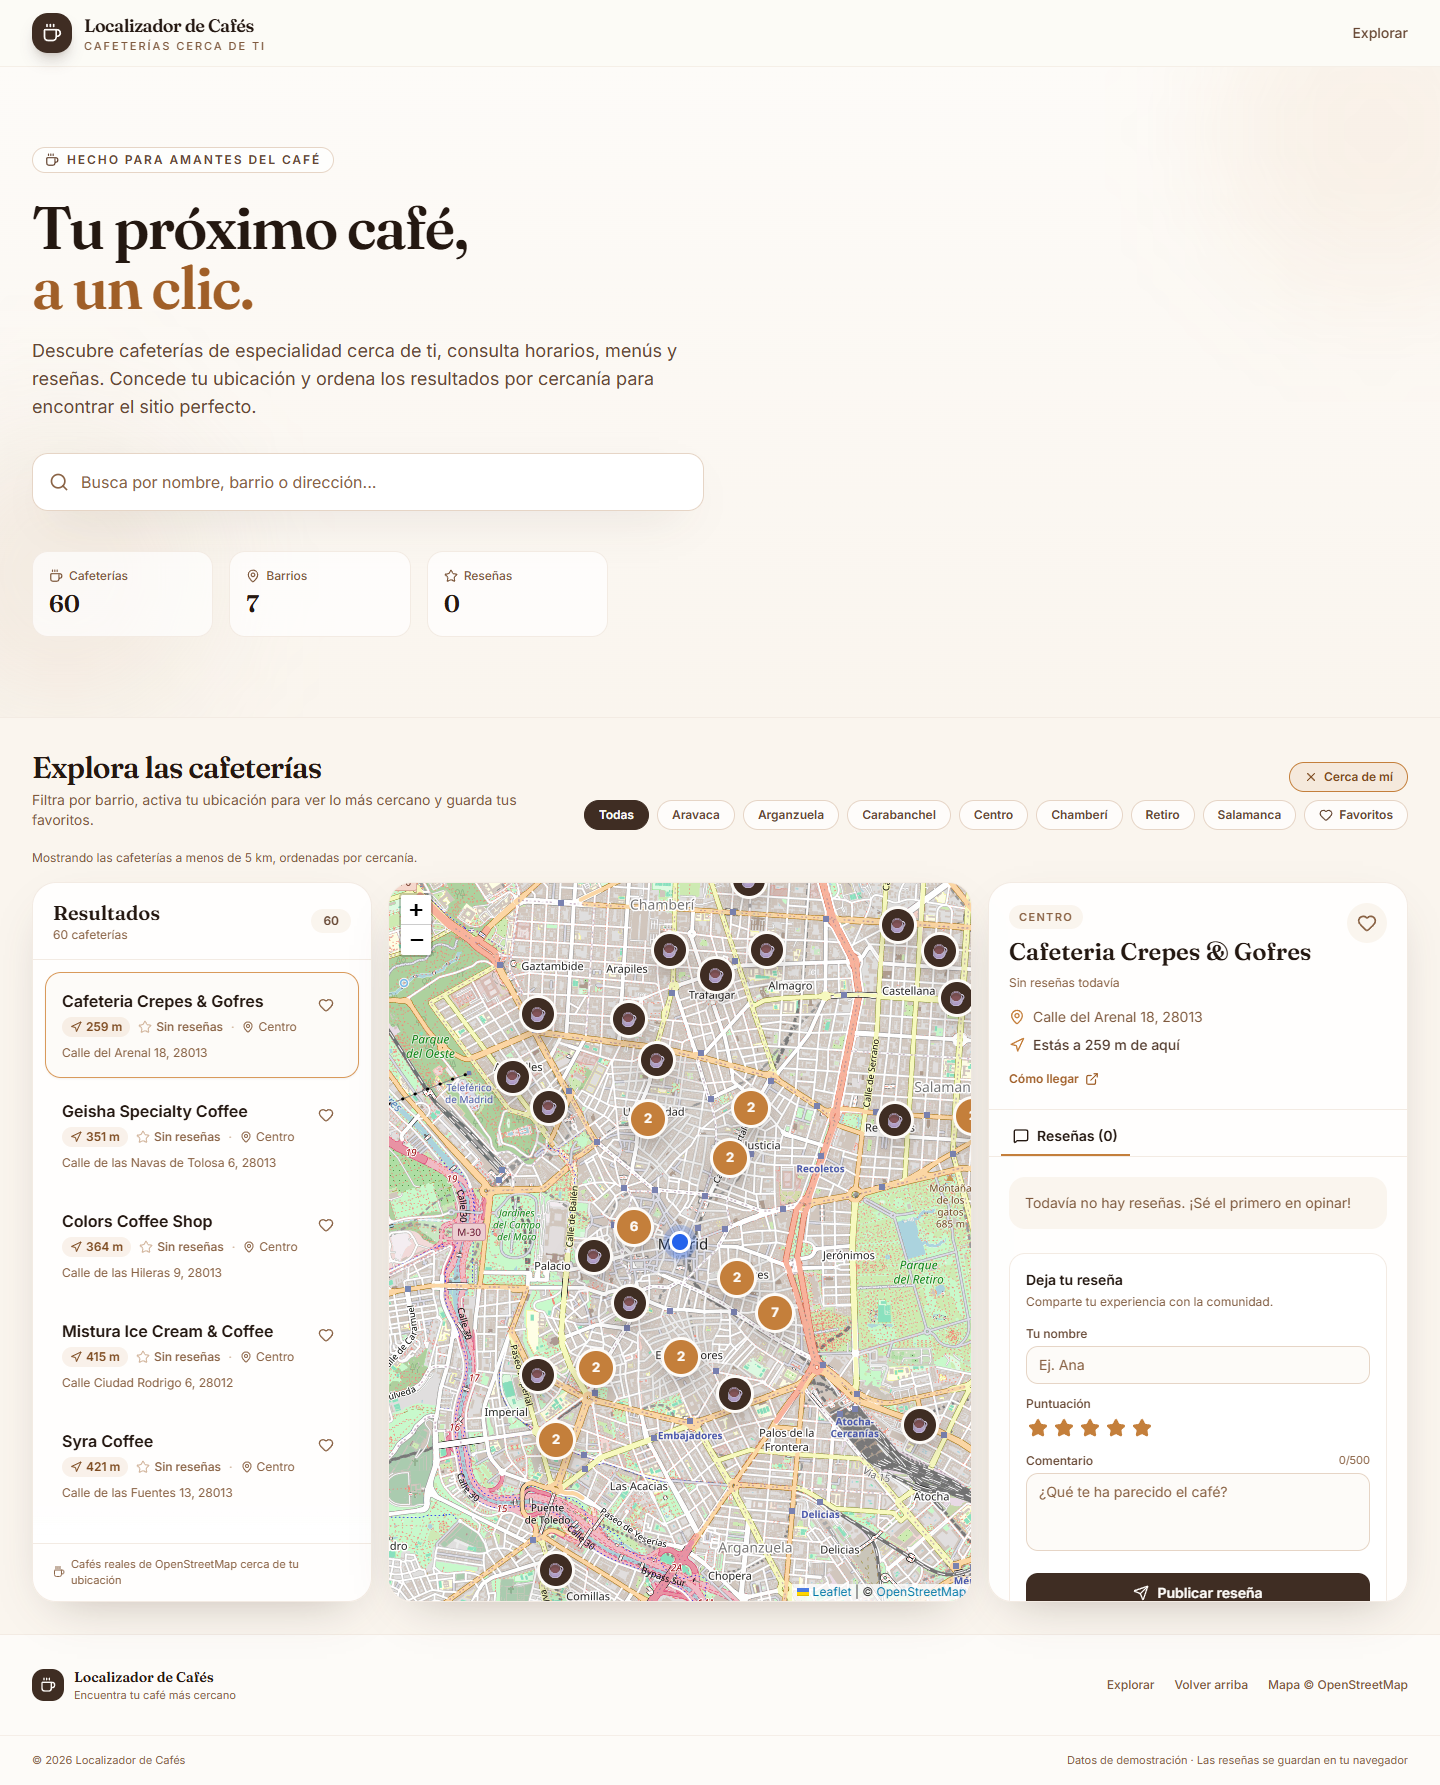
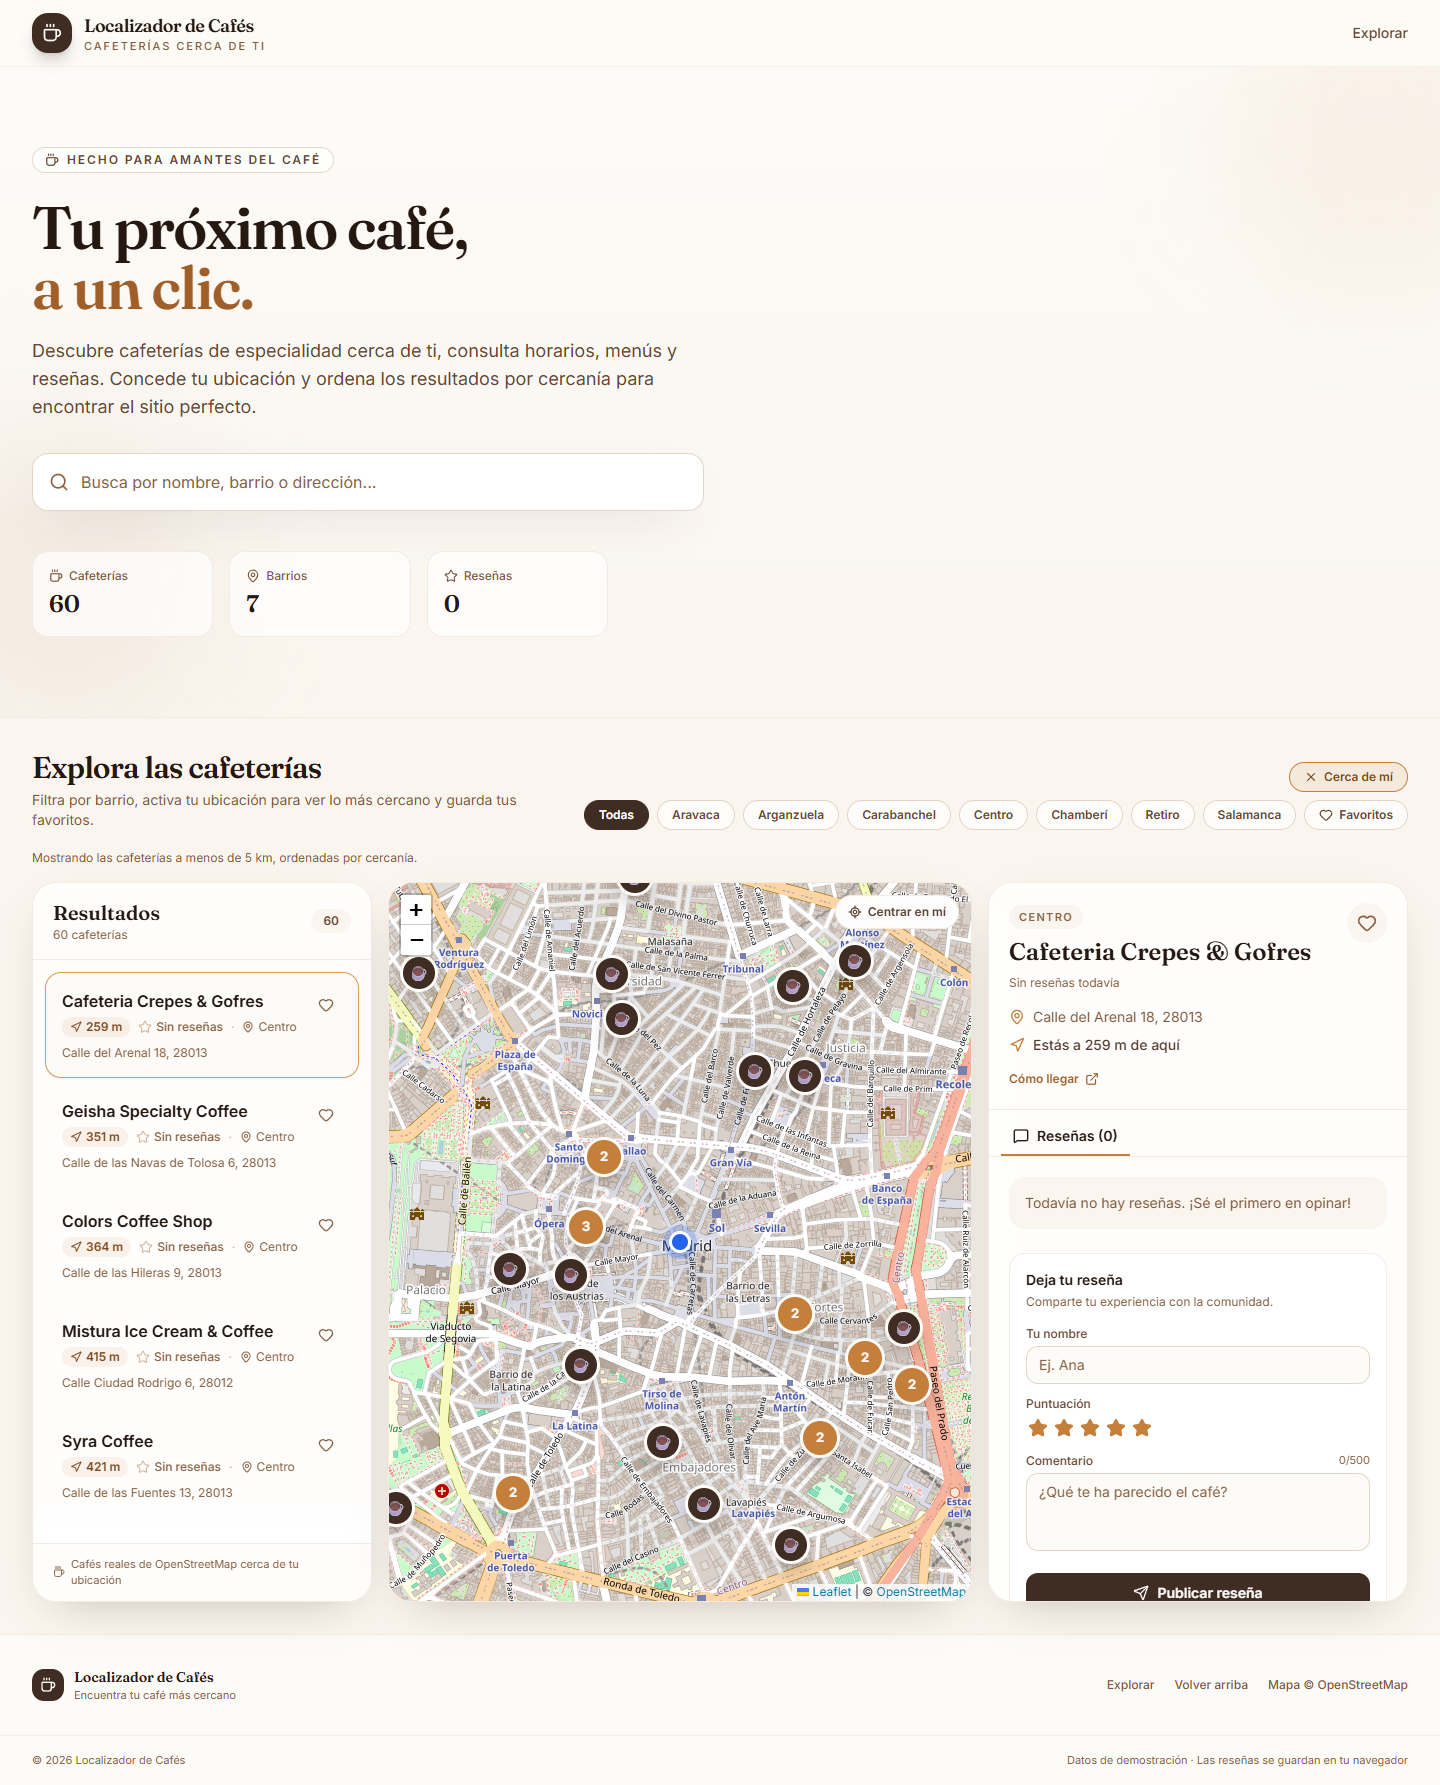
Usa PostgreSQL real y centra el mapa en la ubicacion del usuario
- Registra el plugin NetTopologySuite en NpgsqlDataSource: escribir geography
  fallaba con 'Writing values of Point is not supported for NpgsqlDbType Geography'
- Genera la CSP con el origen de VITE_API_URL para que la API local (HTTP) no
  quede bloqueada por connect-src
- Centra el mapa en el usuario (flyTo, zoom 15), anade el boton 'Centrar en mi'
  y un ResizeObserver con invalidateSize
- Anade scripts/start-db.ps1 para arrancar PostgreSQL/PostGIS en WSL y mantener
  la distro viva
- Muestra el origen de los datos (API .NET + PostgreSQL vs OpenStreetMap) y
  actualiza README y capturas

Changed region(s): [[0.25, 0.493, 0.6875, 0.9244]]

diff --git a/frontend/src/components/MapView.tsx b/frontend/src/components/MapView.tsx
@@ -1,6 +1,7 @@
 import { useEffect, useRef } from 'react';
 import L from 'leaflet';
 import 'leaflet.markercluster';
+import { LocateFixed } from 'lucide-react';
 import { MapContainer, Marker, TileLayer, useMap } from 'react-leaflet';
 import type { Coordinates } from '../lib/geo';
 import type { CafeSummary } from '../types/cafe';
@@ -52,6 +53,9 @@ function MapA11y() {
   return null;
 }
 
+/** Zoom al que se centra la ubicación del usuario: calle, no ciudad. */
+const USER_ZOOM = 15;
+
 function MapController({
   selectedId,
   userLocation,
@@ -63,16 +67,53 @@ function MapController({
 }) {
   const map = useMap();
   const lastFitKey = useRef<string | null>(null);
+  const lastLocationKey = useRef<string | null>(null);
   const lastFlownId = useRef<string | null>(null);
 
   useEffect(() => {
+    // El mapa puede montarse con tamaño 0 (layout diferido, pestañas): sin
+    // esto, los encuadres y el centrado se calculan sobre un contenedor vacío.
+    const container = map.getContainer();
+    const observer = new ResizeObserver(() => map.invalidateSize());
+    observer.observe(container);
+    map.invalidateSize();
+
+    return () => observer.disconnect();
+  }, [map]);
+
+  // Con ubicación real, el mapa se centra en el usuario en cuanto llega. Es
+  // intencionadamente un centrado (no un encuadre con las cafeterías) para que
+  // su punto quede en el centro y el movimiento sea inequívoco.
+  useEffect(() => {
+    if (!userLocation) {
+      lastLocationKey.current = null;
+      return;
+    }
+
+    const locationKey = `${userLocation.latitude},${userLocation.longitude}`;
+    if (lastLocationKey.current === locationKey) {
+      return;
+    }
+    lastLocationKey.current = locationKey;
+
+    map.stop();
+    map.flyTo(
+      [userLocation.latitude, userLocation.longitude],
+      USER_ZOOM,
+      { duration: 1.2 },
+    );
+  }, [map, userLocation]);
+
+  // Sin ubicación del usuario se encuadran las cafeterías de referencia.
+  useEffect(() => {
+    if (userLocation) {
+      return;
+    }
+
     // El encuadre se limita a los más cercanos: con muchas cafeterías en la
     // zona el zoom bajaba tanto que los marcadores se solapaban.
     const fitCafes = cafes.slice(0, FIT_LIMIT);
-    const locationKey = userLocation
-      ? `${userLocation.latitude},${userLocation.longitude}`
-      : '';
-    const fitKey = `${locationKey}|${fitCafes.map((cafe) => cafe.id).join(',')}`;
+    const fitKey = fitCafes.map((cafe) => cafe.id).join(',');
 
     if (lastFitKey.current === fitKey) {
       return;
@@ -80,24 +121,14 @@ function MapController({
     lastFitKey.current = fitKey;
 
     if (fitCafes.length === 0) {
-      // Sin resultados: encuadra la posición del usuario para que su punto
-      // se vea aunque esté lejos de Madrid (datos de ejemplo).
-      if (userLocation) {
-        map.stop();
-        map.setView([userLocation.latitude, userLocation.longitude], 14, {
-          animate: true,
-        });
-      }
+      map.stop();
+      map.setView(MADRID_CENTER, 13);
       return;
     }
 
-    const points: [number, number][] = fitCafes.map(
+    const points = fitCafes.map(
       (cafe) => [cafe.latitude, cafe.longitude] as [number, number],
     );
-
-    if (userLocation) {
-      points.unshift([userLocation.latitude, userLocation.longitude]);
-    }
 
     // Corta cualquier animación en curso (p. ej. un flyTo reciente) para que
     // el encuadre se aplique siempre de forma limpia.
@@ -217,6 +248,21 @@ export function MapView({
   isLoading = false,
   onSelect,
 }: MapViewProps) {
+  const mapRef = useRef<L.Map | null>(null);
+
+  const recenter = () => {
+    if (!userLocation || !mapRef.current) {
+      return;
+    }
+
+    mapRef.current.stop();
+    mapRef.current.flyTo(
+      [userLocation.latitude, userLocation.longitude],
+      USER_ZOOM,
+      { duration: 1 },
+    );
+  };
+
   return (
     <section
       className="relative h-full min-h-[320px] overflow-hidden rounded-3xl border border-coffee-100 shadow-soft"
@@ -224,6 +270,7 @@ export function MapView({
       aria-label="Mapa de cafeterías"
     >
       <MapContainer
+        ref={mapRef}
         center={MADRID_CENTER}
         zoom={13}
         scrollWheelZoom
@@ -247,6 +294,18 @@ export function MapView({
 
         <CafeClusterLayer cafes={cafes} onSelect={onSelect} />
       </MapContainer>
+
+      {userLocation && (
+        <button
+          type="button"
+          onClick={recenter}
+          className="absolute right-3 top-3 z-[1000] inline-flex items-center gap-1.5 rounded-full border border-coffee-100 bg-white/95 px-3 py-2 text-xs font-semibold text-coffee-800 shadow-soft backdrop-blur transition hover:bg-white focus:outline-none focus-visible:ring-2 focus-visible:ring-caramel-500"
+          title="Centrar el mapa en mi ubicación"
+        >
+          <LocateFixed className="h-3.5 w-3.5" aria-hidden="true" />
+          Centrar en mí
+        </button>
+      )}
 
       {cafes.length === 0 && (
         <div className="pointer-events-none absolute inset-0 flex items-center justify-center bg-cream-50/80 backdrop-blur-sm">

diff --git a/frontend/vite.config.ts b/frontend/vite.config.ts
@@ -5,24 +5,48 @@ import { defineConfig, loadEnv } from 'vite';
 
 const DEFAULT_SITE_URL = 'https://example.github.io/localizador-cafes/';
 
-const CONTENT_SECURITY_POLICY = [
-  "default-src 'self'",
-  "base-uri 'self'",
-  "form-action 'self'",
-  "object-src 'none'",
-  "img-src 'self' data: blob: https://*.tile.openstreetmap.org https://tile.openstreetmap.org",
-  "script-src 'self'",
-  "style-src 'self' 'unsafe-inline' https://fonts.googleapis.com",
-  "font-src 'self' data: https://fonts.gstatic.com",
-  "connect-src 'self' https:",
-  "manifest-src 'self'",
-].join('; ');
+function contentSecurityPolicy(apiOrigin: string | null) {
+  // La API local va por HTTP: si se configura VITE_API_URL hay que permitir su
+  // origen en connect-src o el navegador bloquea todas las peticiones.
+  const connectSrc = ["'self'", 'https:'];
+  if (apiOrigin) {
+    connectSrc.push(apiOrigin);
+  }
+
+  return [
+    "default-src 'self'",
+    "base-uri 'self'",
+    "form-action 'self'",
+    "object-src 'none'",
+    "img-src 'self' data: blob: https://*.tile.openstreetmap.org https://tile.openstreetmap.org",
+    "script-src 'self'",
+    "style-src 'self' 'unsafe-inline' https://fonts.googleapis.com",
+    "font-src 'self' data: https://fonts.gstatic.com",
+    `connect-src ${connectSrc.join(' ')}`,
+    "manifest-src 'self'",
+  ].join('; ');
+}
+
+function apiOriginOf(value: string | undefined): string | null {
+  if (!value?.trim()) {
+    return null;
+  }
+
+  try {
+    return new URL(value.trim()).origin;
+  } catch {
+    return null;
+  }
+}
 
 // https://vite.dev/config/
 export default defineConfig(({ mode }) => {
   const env = loadEnv(mode, process.cwd(), '');
   const siteUrl = `${(env.VITE_SITE_URL?.trim() || DEFAULT_SITE_URL).replace(/\/+$/, '')}/`;
   const ogImageUrl = new URL('og-image.png', siteUrl).href;
+  const contentSecurityPolicyHeader = contentSecurityPolicy(
+    apiOriginOf(env.VITE_API_URL),
+  );
 
   return {
     base: './',
@@ -43,7 +67,7 @@ export default defineConfig(({ mode }) => {
         transformIndexHtml(html) {
           return html.replace(
             '</head>',
-            `    <meta http-equiv="Content-Security-Policy" content="${CONTENT_SECURITY_POLICY}" />\n  </head>`,
+            `    <meta http-equiv="Content-Security-Policy" content="${contentSecurityPolicyHeader}" />\n  </head>`,
           );
         },
       },

diff --git a/frontend/src/App.tsx b/frontend/src/App.tsx
@@ -7,6 +7,7 @@ import { Hero } from './components/Hero';
 import { LocationFilter } from './components/LocationFilter';
 import { LocationBanner } from './components/LocationBanner';
 import { NeighborhoodFilter } from './components/NeighborhoodFilter';
+import { IS_DEMO_MODE } from './config';
 import { useCafe } from './hooks/useCafe';
 import { useCafes } from './hooks/useCafes';
 import { useFavorites } from './hooks/useFavorites';
@@ -159,9 +160,11 @@ function App() {
   );
 
   // Indica de dónde salen los datos que se muestran en el listado.
-  const sourceNote = locationActive
-    ? 'Cafés reales de OpenStreetMap cerca de tu ubicación'
-    : 'Cafés reales de OpenStreetMap en Madrid (referencia)';
+  const sourceNote = !IS_DEMO_MODE
+    ? 'Datos servidos por la API (.NET + PostgreSQL)'
+    : locationActive
+      ? 'Cafés reales de OpenStreetMap cerca de tu ubicación'
+      : 'Cafés reales de OpenStreetMap en Madrid (referencia)';
 
   const locationNotice = isLocating
     ? 'Pidiendo permiso para acceder a tu ubicación…'

diff --git a/backend/src/LocalizadorCafes.Infrastructure/DependencyInjection.cs b/backend/src/LocalizadorCafes.Infrastructure/DependencyInjection.cs
@@ -4,6 +4,7 @@ using LocalizadorCafes.Infrastructure.Persistence.Repositories;
 using Microsoft.EntityFrameworkCore;
 using Microsoft.Extensions.Configuration;
 using Microsoft.Extensions.DependencyInjection;
+using Npgsql;
 
 namespace LocalizadorCafes.Infrastructure;
 
@@ -27,12 +28,23 @@ public static class DependencyInjection
             ?? throw new InvalidOperationException(
                 "No se encontró la cadena de conexión 'DefaultConnection'.");
 
-        services.AddDbContext<AppDbContext>(options =>
-            options.UseNpgsql(connectionString, npgsql =>
-            {
-                npgsql.UseNetTopologySuite();
-                npgsql.EnableRetryOnFailure(3);
-            }));
+        // La fuente de datos se construye a mano para registrar el plugin de
+        // PostGIS (NetTopologySuite). Si se pasa solo la cadena de conexión,
+        // Npgsql crea una fuente sin el plugin y falla al escribir `geography`.
+        var dataSourceBuilder = new NpgsqlDataSourceBuilder(connectionString);
+        dataSourceBuilder.UseNetTopologySuite();
+        var dataSource = dataSourceBuilder.Build();
+
+        services.AddSingleton(dataSource);
+
+        services.AddDbContext<AppDbContext>((serviceProvider, options) =>
+            options.UseNpgsql(
+                serviceProvider.GetRequiredService<NpgsqlDataSource>(),
+                npgsql =>
+                {
+                    npgsql.UseNetTopologySuite();
+                    npgsql.EnableRetryOnFailure(3);
+                }));
 
         services.AddScoped<ICafeRepository, CafeRepository>();
 

diff --git a/backend/src/LocalizadorCafes.Api/Program.cs b/backend/src/LocalizadorCafes.Api/Program.cs
@@ -26,7 +26,9 @@ if (useInMemory)
     Console.WriteLine(
         "\n⚠  No se pudo conectar con PostgreSQL. La API arranca en MODO DEMO con datos en memoria.\n" +
         "   Las reseñas nuevas se pierden al reiniciar. Para usar PostgreSQL:\n" +
-        "   docker compose up -d db  (o ajusta ConnectionStrings__DefaultConnection).\n");
+        "     pwsh -File scripts/start-db.ps1   (PostgreSQL en WSL)\n" +
+        "     docker compose up -d db           (Docker)\n" +
+        "   o ajusta ConnectionStrings__DefaultConnection.\n");
 }
 
 builder.Host.UseSerilog((context, services, configuration) =>

diff --git a/README.md b/README.md
@@ -7,7 +7,7 @@ Buscador de cafeterías de especialidad cerca de ti. Proyecto **full-stack** pen
 
 ## Cerca de mí
 
-Al cargar la página se solicita permiso de ubicación automáticamente. Si lo concedes, la app busca cafeterías reales de OpenStreetMap en un radio de 5 km, las ordena de menor a mayor distancia y marca tu posición en el mapa. Si lo deniegas (o el navegador bloquea la petición automática), aparece un aviso con el botón «Permitir ubicación»: al concederlo, la app se recentra sola en tu zona sin recargar. Mientras tanto, enseña cafeterías de Madrid como referencia.
+Al cargar la página se solicita permiso de ubicación automáticamente. Si lo concedes, la app busca cafeterías reales de OpenStreetMap en un radio de 5 km, las ordena de menor a mayor distancia y **centra el mapa en tu posición** (zoom de calle, con tu punto en el centro). Si te alejas arrastrando, el botón **«Centrar en mí»** te devuelve a tu ubicación. Si deniegas el permiso (o el navegador bloquea la petición automática), aparece un aviso con el botón «Permitir ubicación»: al concederlo, la app se recentra sola en tu zona sin recargar. Mientras tanto, enseña cafeterías de Madrid como referencia.
 
 Los **favoritos no dependen de la ubicación**: se guarda la ficha del café en `localStorage`, así que siguen apareciendo aunque te muevas a otra ciudad o cambies de zona.
 
@@ -110,7 +110,19 @@ Si no hay PostgreSQL disponible, la API **arranca en modo demo** con las 6 cafet
 
 ##### Con PostgreSQL + PostGIS
 
-Crea la base de datos y habilita PostGIS:
+La forma más rápida en Windows es usar la distro Ubuntu de WSL, que ya trae PostgreSQL 16 y PostGIS:
+
+```powershell
+# Instalación inicial (una sola vez)
+wsl -d Ubuntu-24.04 -u root -- bash -lc "apt-get install -y postgresql postgresql-contrib postgis postgresql-16-postgis-3"
+
+# Arrancar el clúster (mantiene la distro viva mientras el equipo esté encendido)
+pwsh -File scripts/start-db.ps1
+```
+
+Si usas una distro con otro nombre: `pwsh -File scripts/start-db.ps1 -Distro Ubuntu`.
+
+También puedes usar un PostgreSQL nativo o Docker; en cualquier caso crea la base de datos y habilita PostGIS:
 
 ```sql
 CREATE DATABASE localizador_cafes;
@@ -134,6 +146,8 @@ cd frontend
 VITE_API_URL=http://localhost:5067
 npm run dev
 ```
+
+> El build de producción genera la CSP con el origen de `VITE_API_URL` en `connect-src`, así que la API local (HTTP) no queda bloqueada por el navegador.
 
 #### 3. Docker Compose (todo en uno)
 
@@ -204,7 +218,7 @@ dotnet test
 - 18 pruebas unitarias: validador de reseñas (autor, longitudes, rating y comentario) y repositorio en memoria (búsqueda, radio, reseñas y datos de ejemplo).
 - `dotnet build` sin advertencias ni errores.
 - Migración EF Core con PostGIS incluida en el repositorio.
-- Arranque verificado sin PostgreSQL (modo demo) y con la API respondiendo a listado, detalle, filtro por radio y creación de reseñas.
+- Verificado contra PostgreSQL 16 + PostGIS 3.4 reales: migración y seed automáticos, listado, filtro por radio (`geography`), detalle y alta de reseñas con recálculo de la media. También verificado el arranque sin base de datos (modo demo en memoria).
 
 #### Frontend
 
@@ -254,7 +268,7 @@ El workflow `.github/workflows/backend.yml` compila y ejecuta las pruebas del ba
 ### Limitaciones conocidas
 
 - La demo de GitHub Pages funciona en **modo demo**: no hay backend público, por lo que las reseñas se guardan solo en el navegador. Los cafés provienen de APIs públicas de OpenStreetMap (Photon/Overpass), sujetas a disponibilidad.
-- El backend se ha validado con el repositorio en memoria (modo demo); contra PostgreSQL real requiere Docker/PostgreSQL locales, pero el `docker-compose.yml` y la migración están listos para probarlo de extremo a extremo.
+- El backend se ha validado de extremo a extremo contra **PostgreSQL 16 + PostGIS 3.4** reales (migraciones, seed, filtro por radio con `geography`, detalle y alta de reseñas). En Windows puede arrancarse con `scripts/start-db.ps1`; también hay `docker-compose.yml` para Docker.
 - El mapa depende de OpenStreetMap; sin conexión, los tiles no cargan (el resto de la interfaz sigue funcionando).
 - `VITE_SITE_URL` debe sustituirse por la URL real antes de publicar.
 - La geolocalización requiere HTTPS (o `localhost`) y el permiso del usuario. Algunos navegadores bloquean los avisos de permiso sin un gesto del usuario (Chrome aplica «quiet blocks»): en ese caso la app muestra el aviso con el botón «Permitir ubicación». Si el permiso está bloqueado de forma permanente, hay que abrirlo desde el candado de la barra de direcciones.
